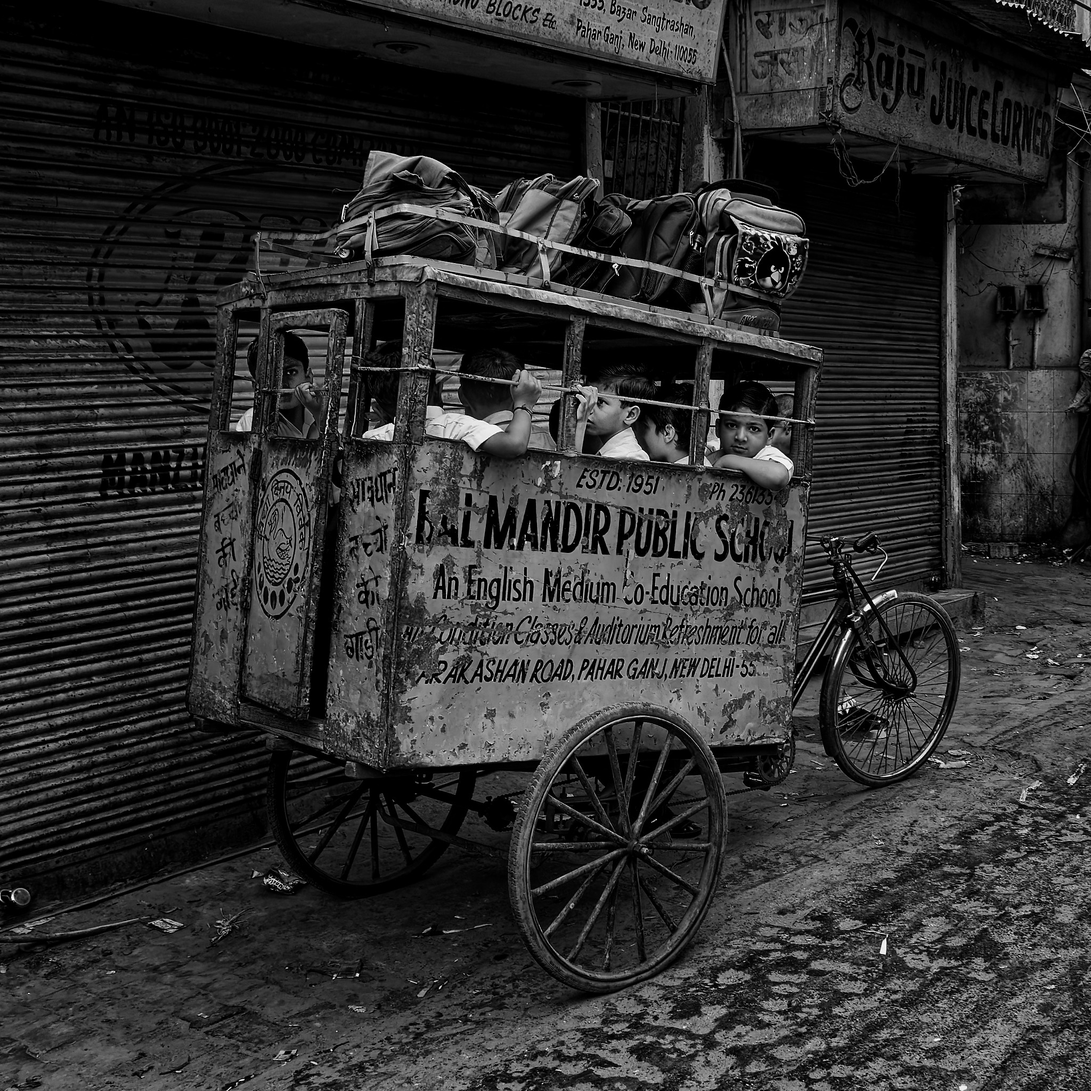
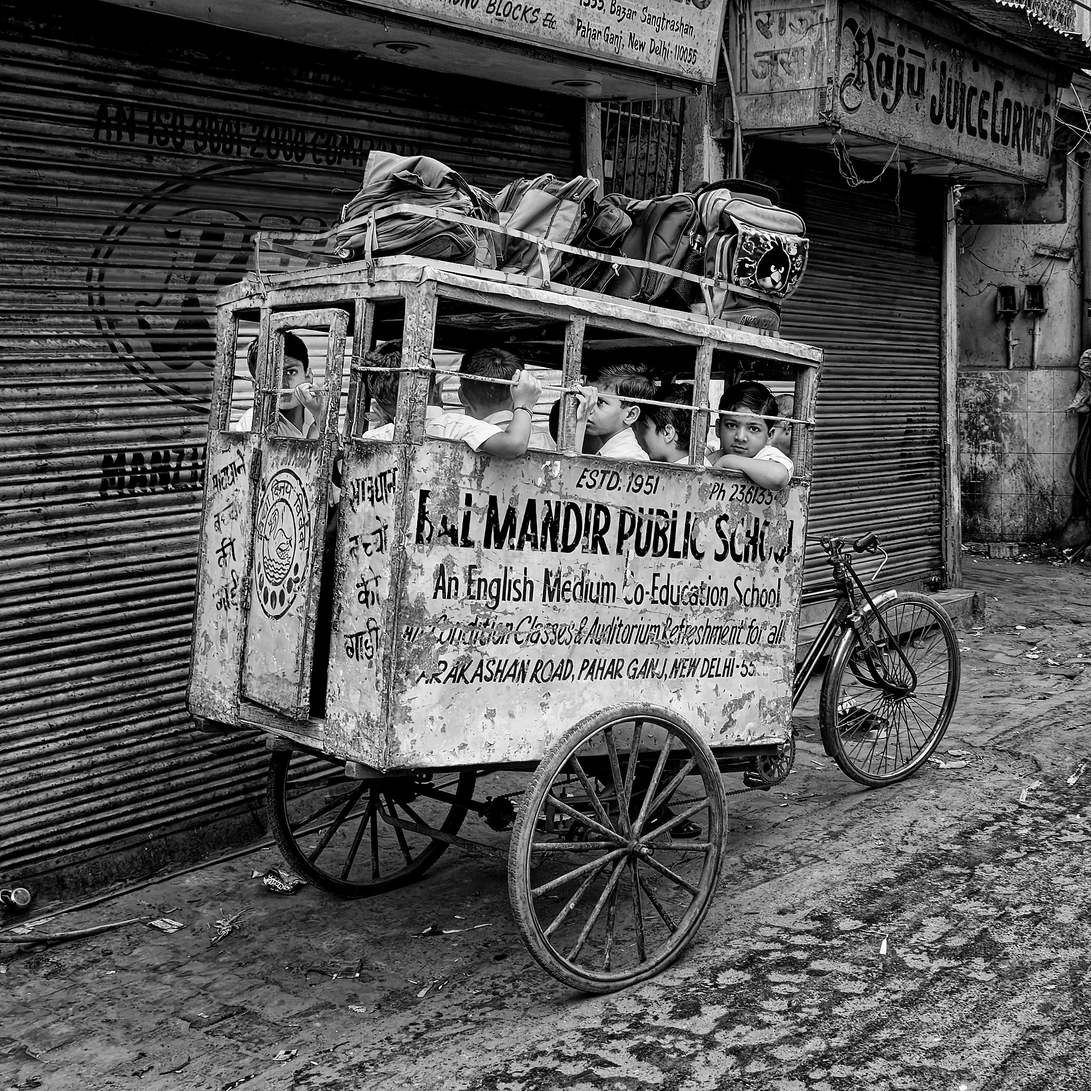
tweaking

diff --git a/src/routes/albums/2013India/+page.svelte b/src/routes/albums/2013India/+page.svelte
@@ -98,7 +98,8 @@
 		[
 			{
 				image: bw09,
-				caption: 'A reasonable lunch of roti from this kind gentleman. Shimla. May, 2013'
+				caption:
+					'A reasonable lunch of roti and curd was provided by this kind gentleman. Shimla. May, 2013'
 			},
 			{ image: c09, caption: ' ' }
 		],
@@ -157,21 +158,21 @@
 			{
 				image: bw16,
 				caption:
-					'Dharamsala is home to the Dalai Lama; there is a sizeable community of Tibetan refugees. And Westerners into Buddhism. <br/>Dharamsala. May, 2013'
+					'Dharamsala is home to the Dalai Lama; there is a sizeable community of Tibetan refugees. <br/>And Westerners into Buddhism. Dharamsala. May, 2013'
 			},
 			{ image: c16, caption: ' ' }
 		],
 		[
 			{
 				image: bw17,
-				caption: ' <br/> Shiva Caf&eacute;, Dharamsala. May, 2013'
+				caption: ' <br/> Near Shiva Caf&eacute;, Dharamsala. May, 2013'
 			},
 			{ image: c17, caption: ' ' }
 		],
 		[
 			{
 				image: bw18,
-				caption: ' <br/> Shiva Caf&eacute;, Dharamsala. May, 2013'
+				caption: ' <br/> Near Shiva Caf&eacute;, Dharamsala. May, 2013'
 			},
 			{ image: c18, caption: ' ' }
 		],
@@ -185,7 +186,7 @@
 		[
 			{
 				image: bw20,
-				caption: " <br/> A variation on shove-ha'penny? Dharamsala. May, 2013"
+				caption: ' <br/> Getting a new look for the summer. Dharamsala. May, 2013'
 			},
 			{ image: c20, caption: ' ' }
 		],
@@ -199,21 +200,21 @@
 		[
 			{
 				image: bw21,
-				caption: " <br/> A variation on shove-ha'penny? Dharamsala. May, 2013"
+				caption: 'Dharamsala. May, 2013'
 			},
 			{ image: c21, caption: ' ' }
 		],
 		[
 			{
 				image: bw22,
-				caption: " <br/> A variation on shove-ha'penny? Dharamsala. May, 2013"
+				caption: 'Tibetan Prayer Wheels. Dharamsala. May, 2013'
 			},
 			{ image: c22, caption: ' ' }
 		],
 		[
 			{
 				image: bw23,
-				caption: " <br/> A variation on shove-ha'penny? Dharamsala. May, 2013"
+				caption: 'Dharamsala. May,&nbsp;2013'
 			},
 			{ image: c23, caption: ' ' }
 		]

diff --git a/src/lib/components/NavigationController.svelte b/src/lib/components/NavigationController.svelte
@@ -89,7 +89,7 @@
 		/* color: red; */
 		cursor: pointer;
 		border: none;
-		font-size: 3.5vh;
+		font-size: clamp(12px, 3.5vh, 30px);
 		margin: 0;
 		outline: inherit;
 		padding: 0;
